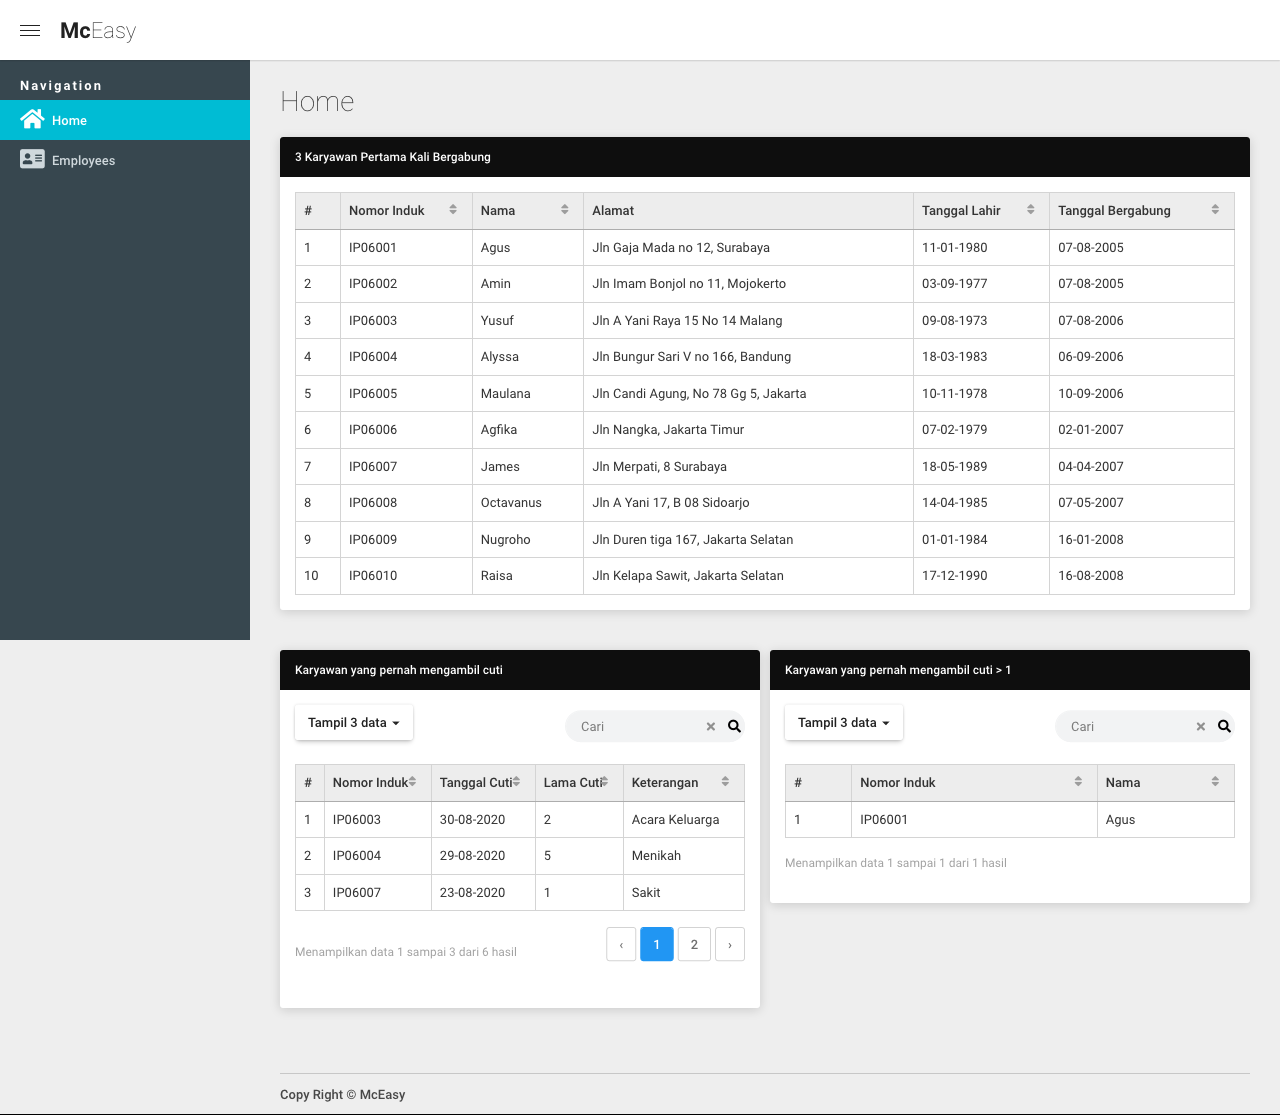
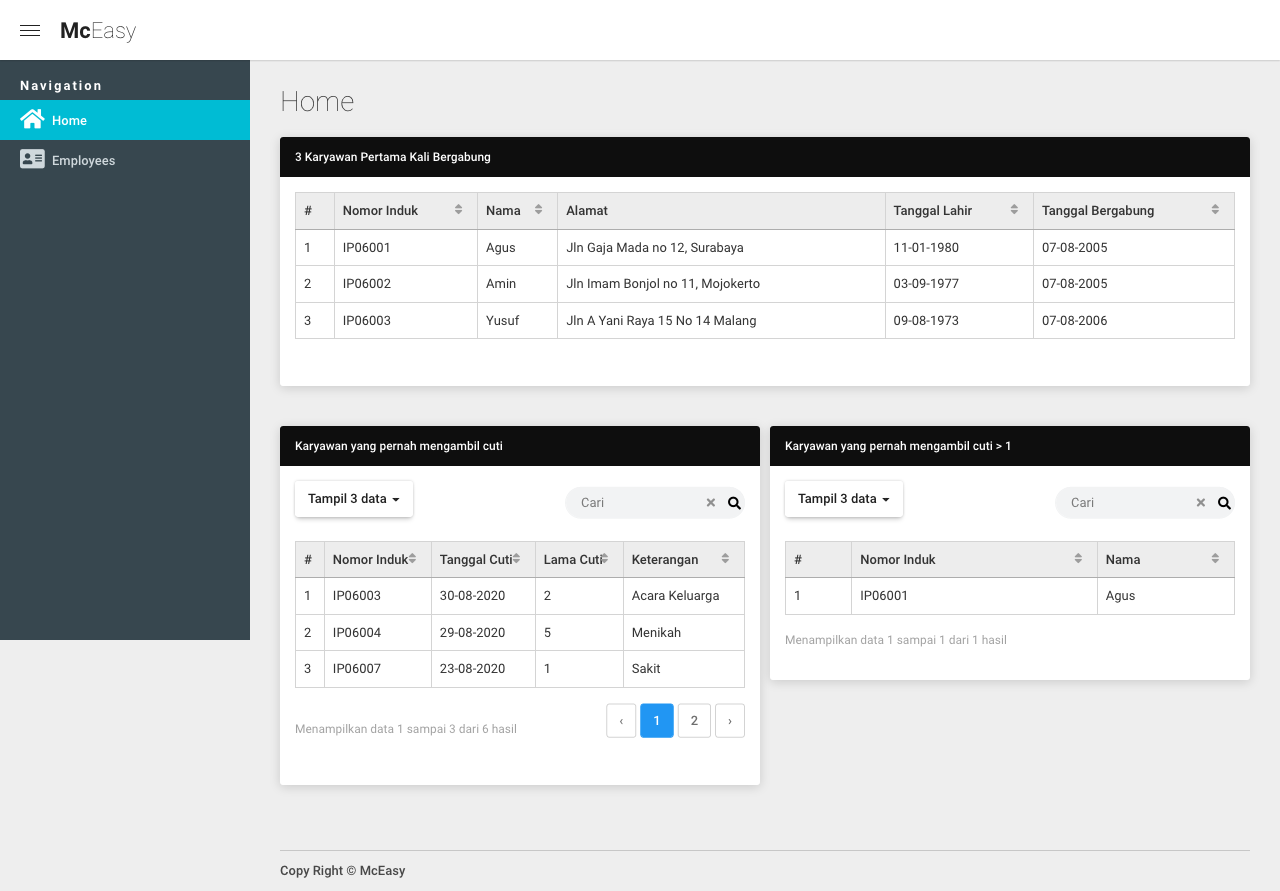
Fix Image display

Changed region(s): [[0.0, 0.0, 1.0, 0.9091], [0.2188, 0.9697, 0.3125, 1.0], [0.9375, 0.697, 0.9688, 0.7273]]

diff --git a/app/Http/Livewire/Table/EmployeeTable.php b/app/Http/Livewire/Table/EmployeeTable.php
@@ -16,21 +16,20 @@ class EmployeeTable extends TableBase
 
     public $firstJoin = false;
         
-    public function query():Builder
-    {
-        return Employee::query();
-    }
-
     public function mount(){
         if ($this->firstJoin) {
             $this->initialColumnSort="join_date";
             $this->initialSort="asc";
             $this->searchEnabled=false;
-            $this->paginationEnabled=false;
+            $this->displayLink=false;
             $this->displayPerpage=false;
             $this->displayCount=false;
-            $this->perPage=3;
         }
+    }
+
+    public function query():Builder
+    {
+        return Employee::query();
     }
 
     public function columns():array

diff --git a/resources/views/pages/home.blade.php b/resources/views/pages/home.blade.php
@@ -4,7 +4,7 @@
 		<div class="col-lg-12 col-sm-6">
 			<x-elements.panel title="3 Karyawan Pertama Kali Bergabung">
 				<x-slot name="body">
-					<livewire:table.employee-table :firstJoin="true"/>
+					<livewire:table.employee-table :firstJoin="true" :perPage="3"/>
 				</x-slot>
 			</x-elements.panel>
 		</div>
